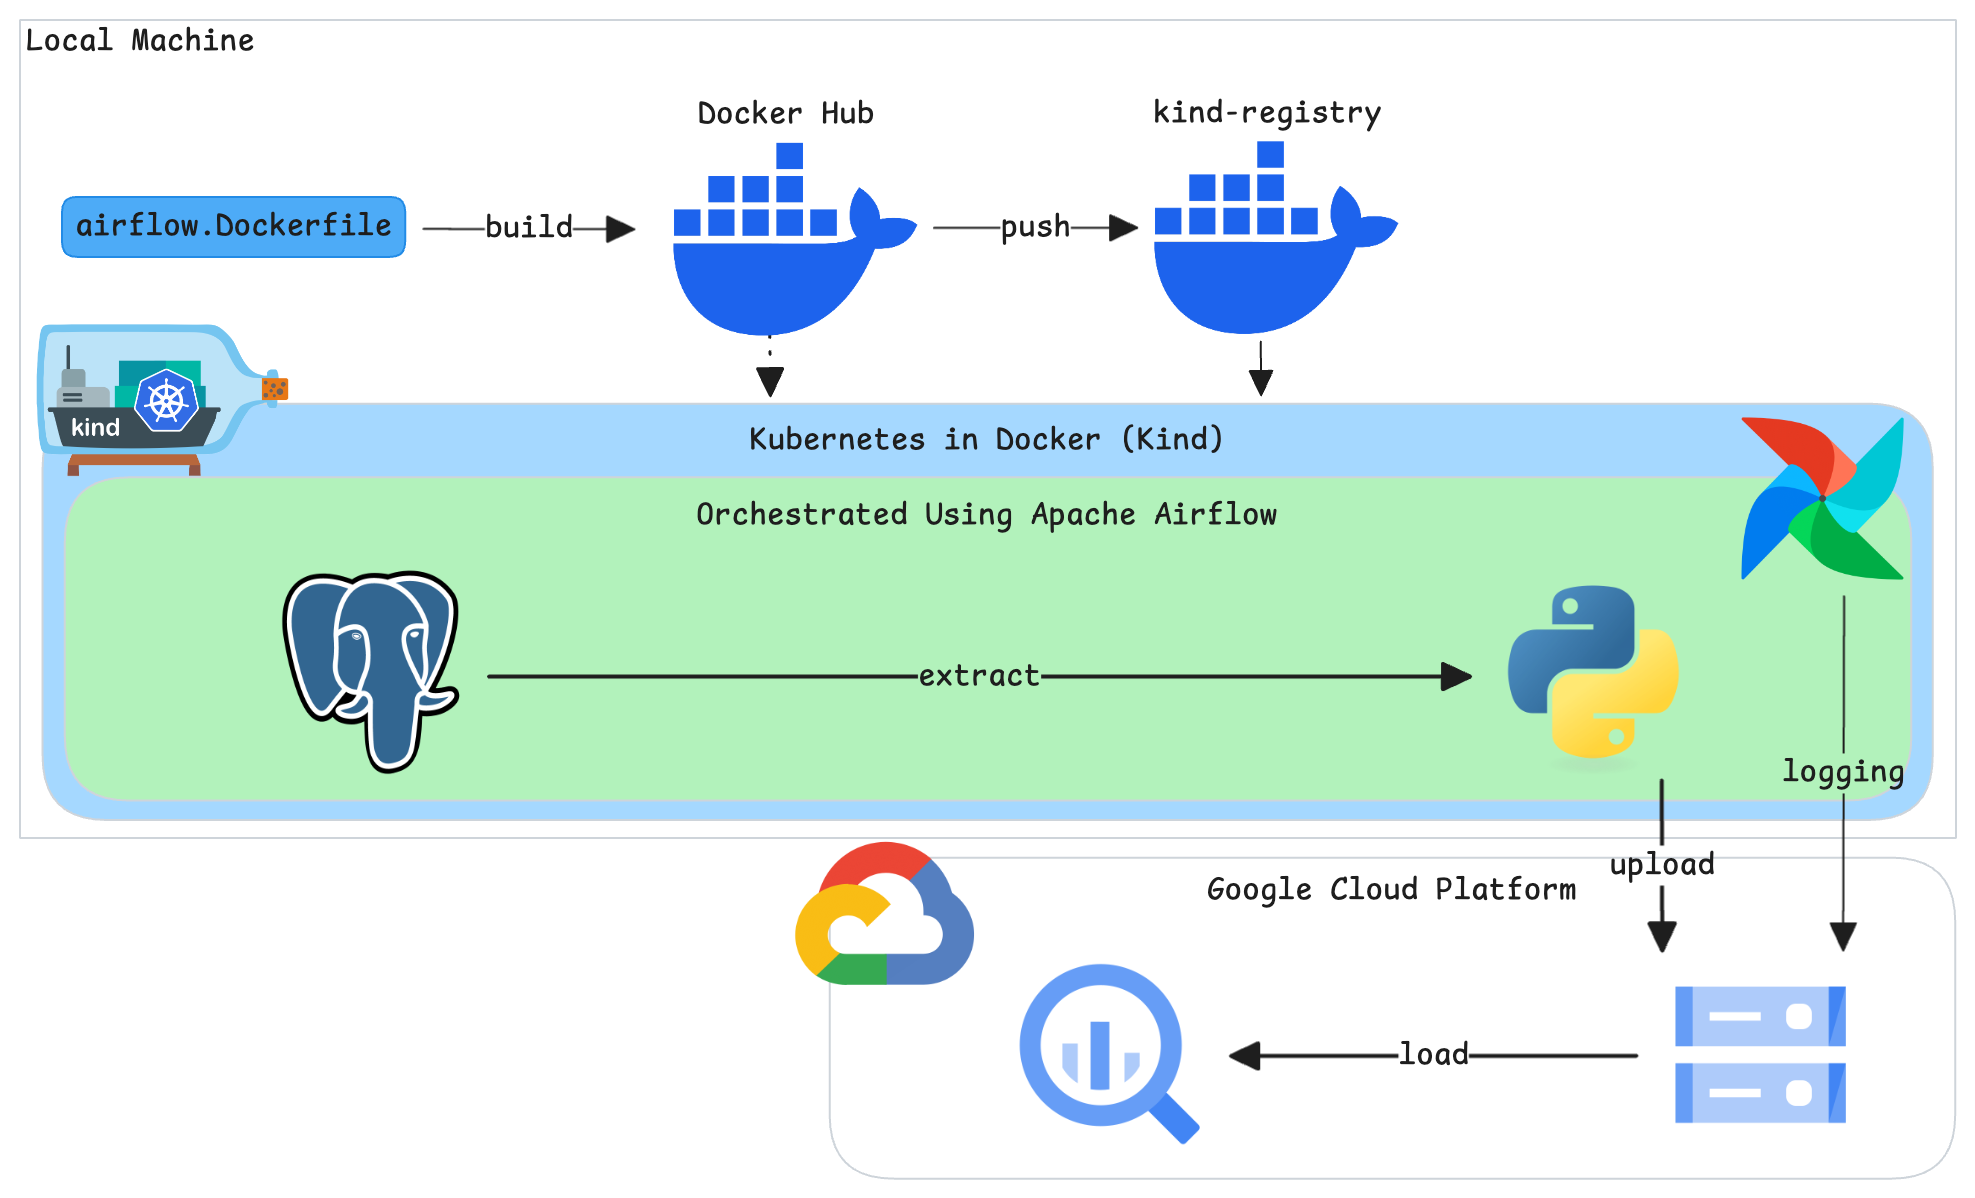
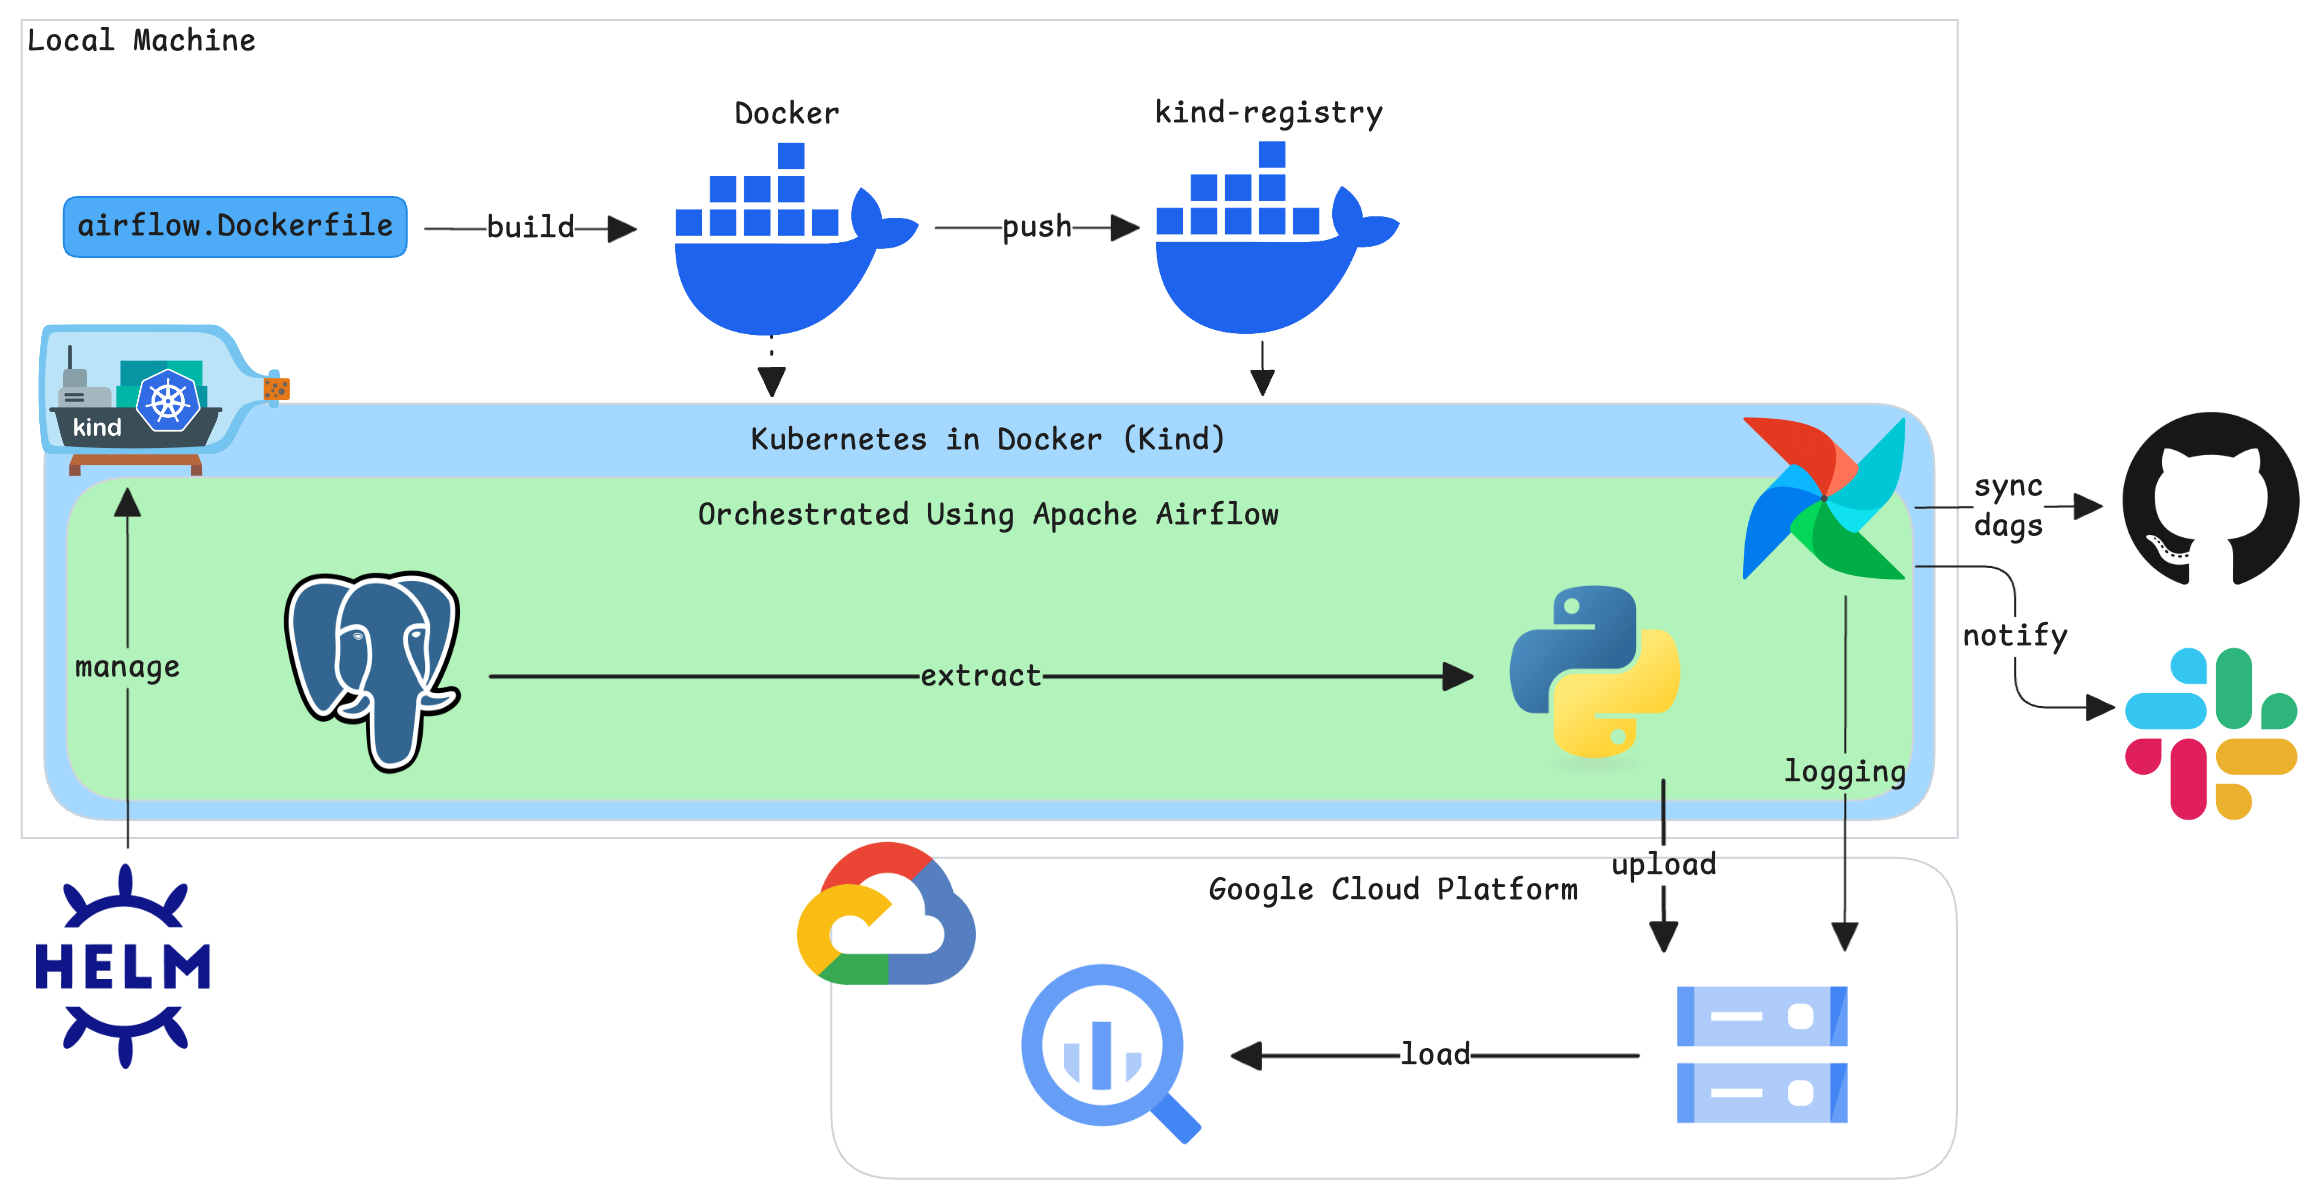
docs: add github, helm, and slack to hla image

diff --git a/README.md b/README.md
@@ -6,8 +6,6 @@ Lugvloei is Afrikaans which Airflow, I randomly chose Afrikaans, the purpose onl
 ## High-Level Architecture
 ![High-Level Architecture](docs/assets/hla.png)
 
-P.S. I also use Helm to manage Kubernetes applications, GitHub as the DAGs repository, and Slack. I will add them later on to the High-Level Architecture above.
-
 ## Setup & Installation
 ### Disclaimer
 :warning: I tested this setup guide only on macOS Sequoia 15.0.1. If you are using a different OS, you might need to adjust several things.
